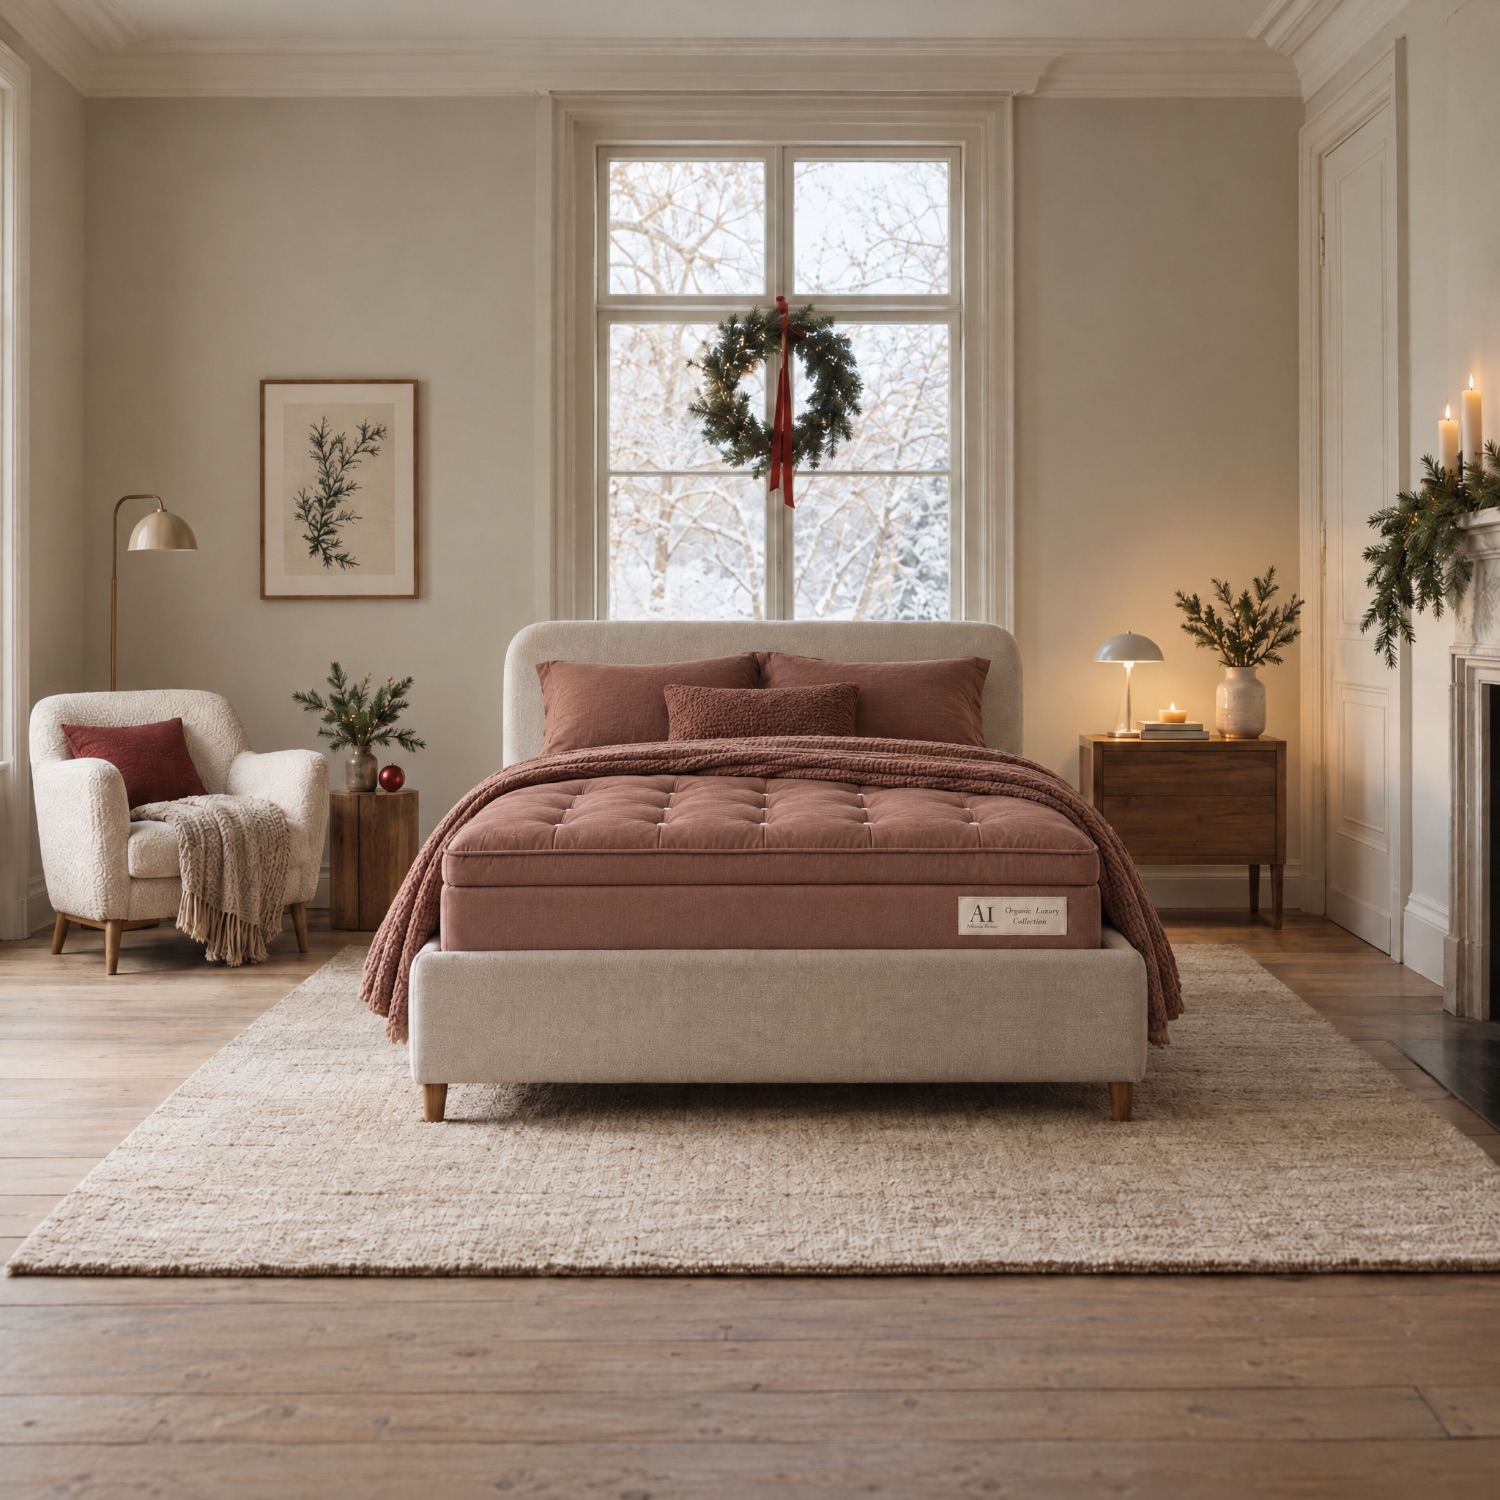
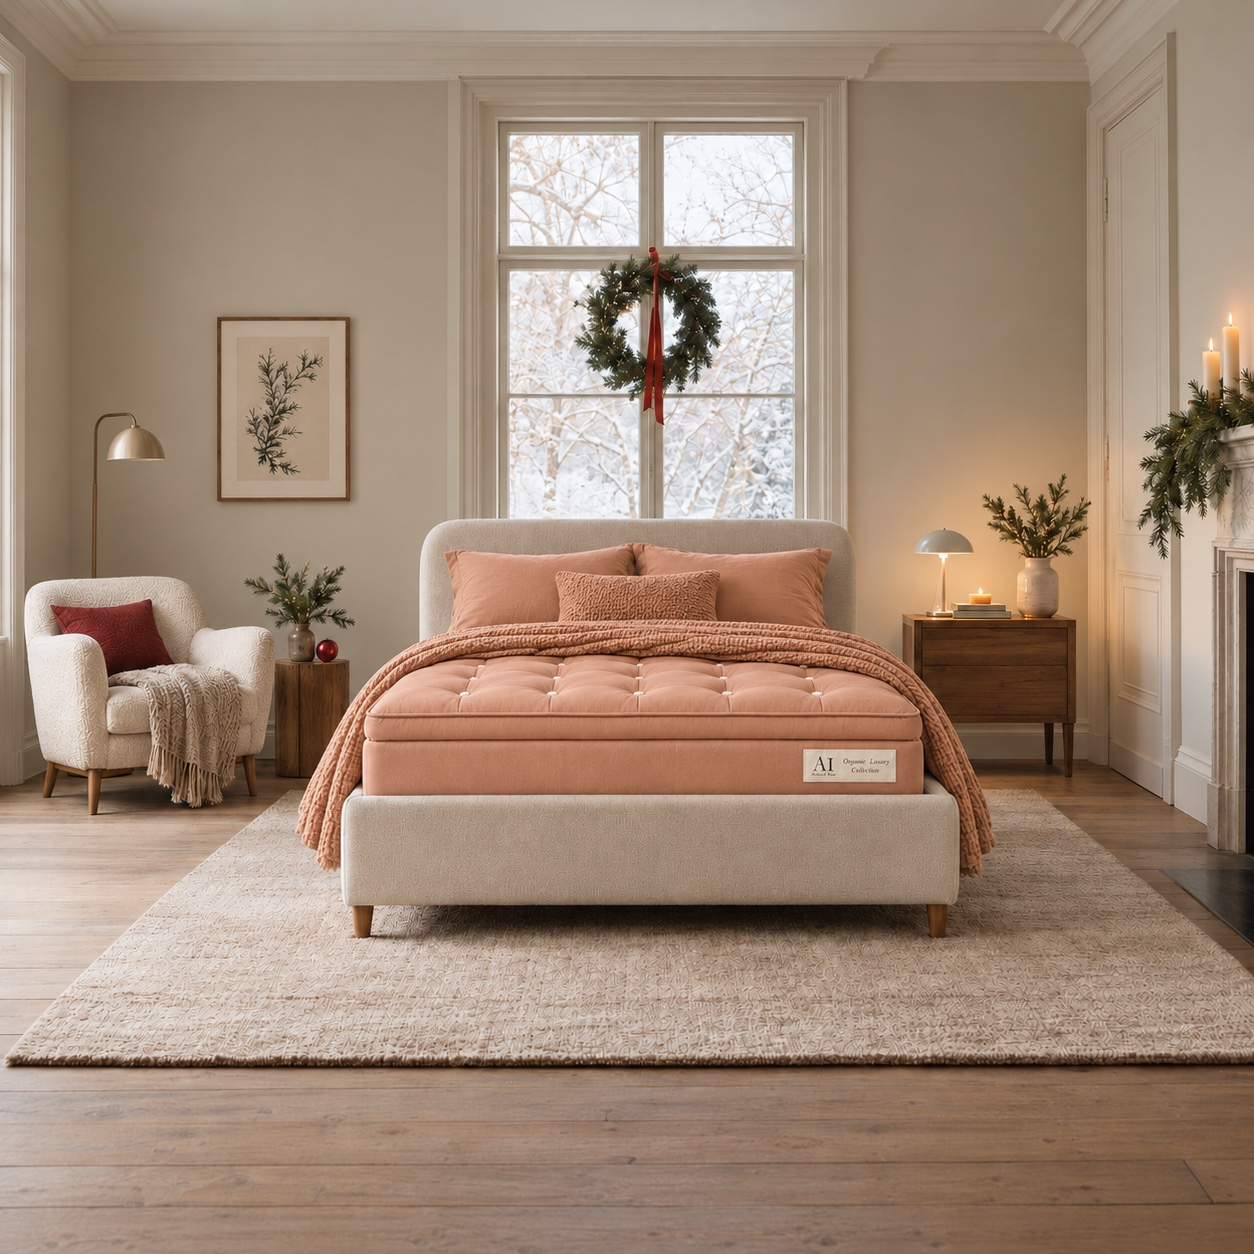
Holiday Edit Sleep Suite: photo follows the color swatch; protector photo (#190)
* Sorrel: updated labelled cutaway (coir and agave layer)

Claude-Session: https://claude.ai/code/session_01BdupDbY4vAUPMLYs1EoME5

* Ashbury construction: coconut coir and agave beneath the pocket coils; new stacked-layers photo

- Construction list (mattress page and Inside the Ashbury): coils, coconut coir, agave, then cotton and wool; coir and agave link to Furniture materials
- Pocket coils, coir and agave entries and the assistant's construction line updated to match

Claude-Session: https://claude.ai/code/session_01BdupDbY4vAUPMLYs1EoME5

* Mattress: new coir & agave 'Naturally layered' graphics for Sorrel, Fleece, Flint and Flax (back in their galleries; Moss awaits its graphic)

Claude-Session: https://claude.ai/code/session_01BdupDbY4vAUPMLYs1EoME5

* Furniture: remove Cork upholstery (Marlowe sofa/loveseat/chair/ottoman option, swatches, sofa photos, trade copy)

Claude-Session: https://claude.ai/code/session_01BdupDbY4vAUPMLYs1EoME5

* Mattress: retire Moss; the Ashbury now comes in four colors (copy, feed and meta updated)

Claude-Session: https://claude.ai/code/session_01BdupDbY4vAUPMLYs1EoME5

* Dog bed: retire Moss to match the Ashbury's four colors (copy, editorial photo, assistant)

Claude-Session: https://claude.ai/code/session_01BdupDbY4vAUPMLYs1EoME5

* Mattress: $200 white glove delivery (product page, cart, checkout copy, feeds, FAQs, assistant); dog beds stay free

Claude-Session: https://claude.ai/code/session_01BdupDbY4vAUPMLYs1EoME5
[…]

diff --git a/components/holiday-edit.tsx b/components/holiday-edit.tsx
@@ -23,10 +23,13 @@ import { BUNDLE, BUNDLE_PILLOWS, SALE, SLEEP_SUITE, countdownFrom, saleEndShort,
 /** The page's photographs: Tessa's (05/11), except the Gifts band, a stand-in for now. */
 export const HOLIDAY_PHOTOS: Record<"hero" | "suite" | "bestFriends" | "gifts", { photo: PhotoKey; alt: string }> = {
   hero: { photo: "holiday-hero", alt: "The Marlowe Sofa in white linen on its fluted oak plinth, in a sunlit living room with a marble fireplace and a travertine coffee table" },
-  suite: { photo: "holiday-suite", alt: "The Ashbury in Sorrel made up with matching pillows and a throw, in a winter bedroom with snow outside the window and a wreath" },
+  suite: { photo: "holiday-suite", alt: "The Ashbury in Sorrel made up with matching pillows and a throw, in a winter bedroom with a wreath in the window" },
   bestFriends: { photo: "holiday-best-friends", alt: "The Ashbury in Flint with a matching Ashbury Dog Bed beside it, a dog asleep on it by a frosty window" },
   gifts: { photo: "holiday-gifts", alt: "A stack of Ashwick pillows in cream, oat, sorrel and grey" },
 };
+
+/** The Sleep Suite's first photo by mattress color id (ids keep the old names: natural = Fleece, dove = Flint, safari = Flax, mocha = Sorrel). */
+const SUITE_ROOM_BY_COLOR: Record<string, PhotoKey> = { natural: "holiday-suite-fleece", dove: "holiday-suite-flint", safari: "holiday-suite-flax", mocha: "holiday-suite" };
 
 /**
  * Holiday delivery: the last day to order for delivery before Christmas, by category (Tessa, 05/11). Each line drops
@@ -140,10 +143,13 @@ export function SuiteDeal({ prices }: { prices: LivePrices }) {
   const list = m + prices.bedding;
   const sale = salePrice(m) + salePrice(prices.bedding);
   const ashburyAlone = salePrice(m) + MATTRESS.delivery.price;
+  // The first photo follows the color swatch (Tessa's winter bedroom in each colorway); Sorrel is HOLIDAY_PHOTOS.suite.
+  const colorLabel = MATTRESS.colors.find((c) => c.id === color)?.label ?? "";
+  const roomPhoto = SUITE_ROOM_BY_COLOR[color] ?? HOLIDAY_PHOTOS.suite.photo;
   const shots: GalleryShot[] = [
-    { photo: HOLIDAY_PHOTOS.suite.photo, alt: HOLIDAY_PHOTOS.suite.alt },
+    { photo: roomPhoto, alt: `The Ashbury in ${colorLabel} made up with matching pillows and a throw, in a winter bedroom with a wreath in the window` },
     { photo: "pillow-hero", alt: "The Ashwick Pillow" },
-    { photo: "mattress-room-flint-clean", alt: "The Ashbury in Flint on a light oak bed" },
+    { photo: "mattress-protector", alt: "The Mattress Protector fitted over an Ashbury in Sorrel, with a folded spare beside it" },
   ];
   const add = () => {
     cart.addMany(sleepSuiteLines({ sizeId: size, feelId: MATTRESS.feels[0].id, colorId: color, pillowId: BUNDLE_PILLOWS[0].id as string }));
@@ -164,7 +170,7 @@ export function SuiteDeal({ prices }: { prices: LivePrices }) {
         <SizeChips sizes={MATTRESS.sizes} value={size} onChange={(s) => { setSize(s); setAdded(false); }} label="Mattress size" />
         <div className="hx-colors" role="radiogroup" aria-label="Color">
           {MATTRESS.colors.map((c) => (
-            <button key={c.id} type="button" role="radio" aria-checked={color === c.id} aria-label={c.label} title={c.label} className={color === c.id ? "on" : undefined} onClick={() => { setColor(c.id); setAdded(false); }}>
+            <button key={c.id} type="button" role="radio" aria-checked={color === c.id} aria-label={c.label} title={c.label} className={color === c.id ? "on" : undefined} onClick={() => { setColor(c.id); setAdded(false); setShot(0); }}>
               <Photo src={c.swatch} label="" sizes="32px" />
             </button>
           ))}

diff --git a/lib/photos.ts b/lib/photos.ts
@@ -204,9 +204,13 @@ import mattressRoomSorrelClean from "@/assets/photos/mattress-room-sorrel-clean.
 // The Holiday Edit (/black-friday): Tessa's photos (05/11).
 import holidayHero from "@/assets/photos/holiday-hero.jpg";
 import holidaySuite from "@/assets/photos/holiday-suite.jpg";
+import holidaySuiteFleece from "@/assets/photos/holiday-suite-fleece.jpg";
+import holidaySuiteFlint from "@/assets/photos/holiday-suite-flint.jpg";
+import holidaySuiteFlax from "@/assets/photos/holiday-suite-flax.jpg";
 import holidayPillows from "@/assets/photos/holiday-pillows.jpg";
 import holidayNook from "@/assets/photos/holiday-nook.jpg";
 import holidayBestFriends from "@/assets/photos/holiday-best-friends.jpg";
+import mattressProtector from "@/assets/photos/mattress-protector.jpg";
 import mattressSwatchKhaki from "@/assets/photos/mattress-swatch-khaki.jpg";
 import pembroke1 from "@/assets/photos/pembroke-1.jpg";
 // The Pembroke hero (Nov 2026): leads its gallery and cards. Untagged, so choosing a color moves to that color's photo.
@@ -417,9 +421,13 @@ export const PHOTOS = {
   // The Holiday Edit (/black-friday): Tessa's photos, except the Gifts band (a stand-in).
   "holiday-hero": holidayHero,
   "holiday-suite": holidaySuite,
+  "holiday-suite-fleece": holidaySuiteFleece,
+  "holiday-suite-flint": holidaySuiteFlint,
+  "holiday-suite-flax": holidaySuiteFlax,
   "holiday-pillows": holidayPillows,
   "holiday-nook": holidayNook,
   "holiday-best-friends": holidayBestFriends,
+  "mattress-protector": mattressProtector,
   "holiday-gifts": pillowsHero,
   "mattress-swatch-khaki": mattressSwatchKhaki,
   "pembroke-1": pembroke1,
